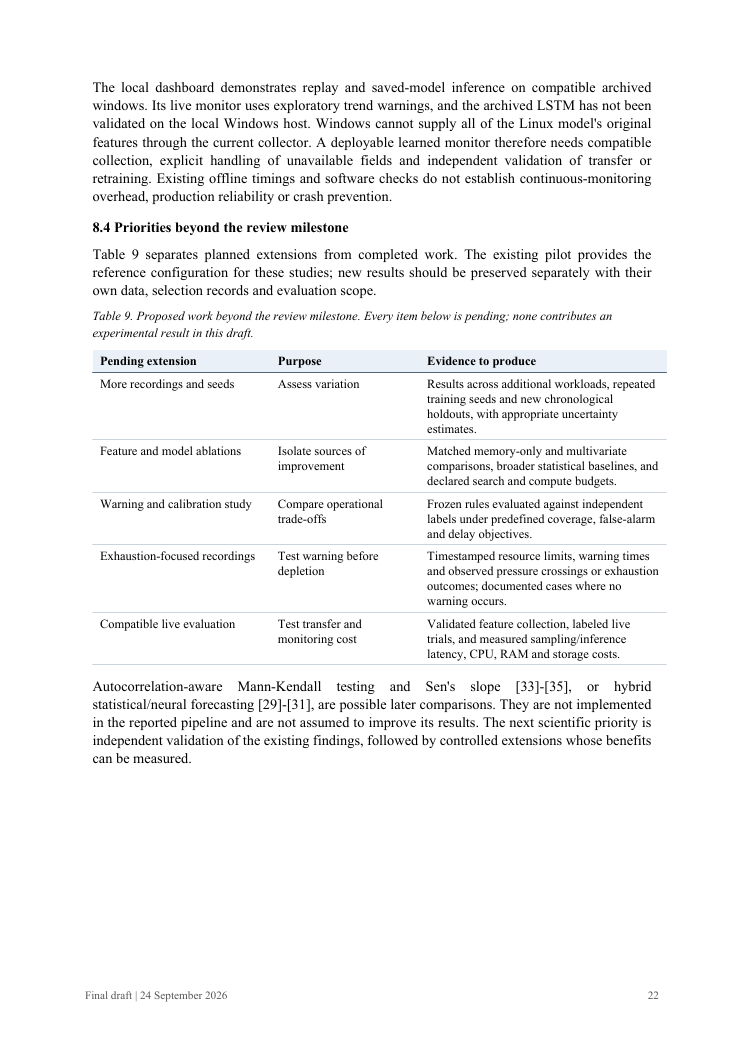
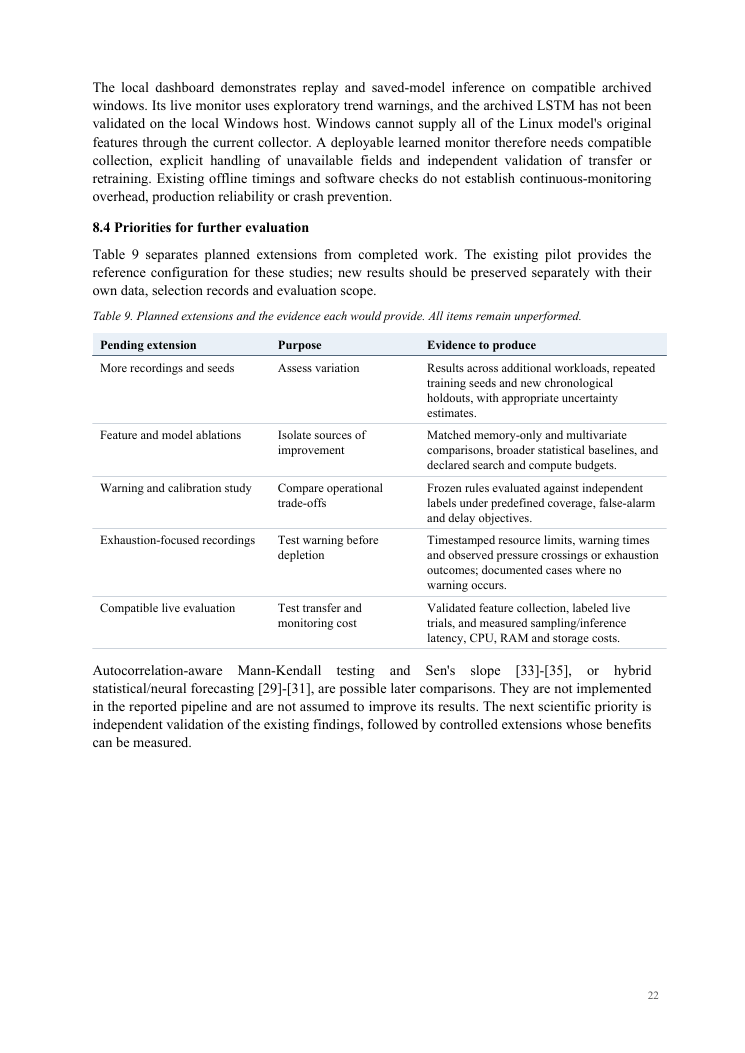
Remove draft labels and clarify manuscript for journal preparation

diff --git a/scripts/build_paper_preview.py b/scripts/build_paper_preview.py
@@ -1,7 +1,7 @@
 """Build the current paper PDF from its editable Markdown source.
 
 Requires reportlab==4.4.9. Supports the headings, paragraphs, links, figures, tables,
-captions, author byline and editorial subtitle used by the final draft.
+captions and author byline used by the manuscript.
 """
 
 from html import escape
@@ -51,7 +51,6 @@ def page_footer(canvas, doc):
     canvas.saveState()
     canvas.setFont("Times-Roman", 9)
     canvas.setFillColor(colors.HexColor("#555555"))
-    canvas.drawString(doc.leftMargin, 15 * mm, doc.paper_status)
     canvas.drawRightString(A4[0] - doc.rightMargin, 15 * mm, str(doc.page))
     canvas.restoreState()
 
@@ -59,9 +58,8 @@ def page_footer(canvas, doc):
 def main():
     source_text = SOURCE.read_text(encoding="utf-8")
     author_line = re.search(r"^Authors: (.+)$", source_text, re.MULTILINE)
-    status_line = re.search(r"^> (.+)$", source_text, re.MULTILINE)
-    if author_line is None or status_line is None:
-        raise ValueError("The manuscript must specify its authors and draft status")
+    if author_line is None:
+        raise ValueError("The manuscript must specify its authors")
     authors = [entry.strip() for entry in author_line.group(1).split(";")]
     styles = {
         "title": ParagraphStyle("PaperTitle", fontName="Times-Bold", fontSize=18,
@@ -180,9 +178,8 @@ def main():
                             rightMargin=24 * mm, topMargin=20 * mm,
                             bottomMargin=23 * mm,
                             title="Predictive Memory Leak Detection Using Time Series Analysis",
-                            subject="Final draft of pilot-study manuscript",
+                            subject="Memory-forecasting and leak-warning pilot study",
                             author="; ".join(authors))
-    doc.paper_status = status_line.group(1)
     doc.build(story, onFirstPage=page_footer, onLaterPages=page_footer)
     print(f"Created {OUTPUT.relative_to(ROOT)}")
 

diff --git a/paper/Predictive_Memory_Leak_Detection_Draft.md b/paper/Predictive_Memory_Leak_Detection_Draft.md
@@ -2,11 +2,9 @@
 
 Authors: Dhruv Dudeja (24BCE0968); Ayush Bhatt (24BDS0180); Bs srivallabha (24BCE0457)
 
-> Final draft | 24 September 2026
-
 ## Abstract
 
-Accurate memory forecasts do not necessarily produce useful leak warnings. This study evaluates these tasks separately using operating-system telemetry from one labeled Antarex fault-injection block and three unlabeled Westermo industrial test systems. A reproducible pipeline preserves chronological training, validation and test partitions, fits preprocessing parameters on training data, and compares persistence, local linear trend, restricted autoregressive integrated moving average (ARIMA) and a small multivariate long short-term memory (LSTM) network. Forecast horizons are 60 seconds for Antarex and 300 seconds for Westermo. Validation-calibrated, forecast-assisted rules combine recent observed growth with forecast growth and require three consecutive qualifying observations. On Antarex, LSTM reduces test root mean squared error from ARIMA's 1.5164 to 1.2164 percentage points of total RAM, a relative reduction of 19.78%. LSTM also has lower root mean squared error on all three Westermo recordings, while ARIMA has lower mean absolute error there. Compared with trend-only warnings, LSTM assistance increases Antarex point precision from 0.8020 to 0.8476 and reduces false alarm starts from 2.1279 to 1.0392 per observed non-leak hour, but point F1 decreases from 0.8297 to 0.6015. Trend-only warnings recognize 35 of 35 eligible injected events; LSTM assistance recognizes 34. A local prototype supports replay and saved-model inference on compatible archived inputs. These single-seed pilot results concern recognition after injection begins; they do not establish warning before exhaustion or validated live LSTM transfer. The findings support assessing forecast errors, warning coverage and false-alarm burden as distinct outcomes.
+We evaluate whether more accurate memory forecasts improve leak warnings using telemetry from one labeled Antarex fault-injection recording and three unlabeled Westermo industrial test systems. Persistence, local linear trend and a restricted autoregressive integrated moving average (ARIMA) baseline are compared with a small multivariate long short-term memory (LSTM) network. Each recording is split chronologically, with preprocessing fitted on training data. Forecast horizons are 60 seconds for Antarex and 300 seconds for Westermo. Warning rules combine recent and predicted memory growth, use validation-selected thresholds and require three consecutive qualifying observations. On Antarex, LSTM reduces test root mean squared error from ARIMA's 1.5164 to 1.2164 percentage points of total RAM, a 19.78% reduction. LSTM also has lower root mean squared error on the Westermo recordings, although ARIMA has lower mean absolute error. LSTM-assisted warnings increase Antarex point precision from 0.8020 to 0.8476 and reduce false alarm starts from 2.1279 to 1.0392 per observed non-leak hour. Point F1, however, falls from 0.8297 to 0.6015. Trend-only warnings recognize all 35 eligible injected events; LSTM assistance recognizes 34. A local prototype provides replay and saved-model inference on archived inputs. These single-seed results show that lower forecast error can accompany reduced warning coverage. They concern recognition after injection begins; warning before memory exhaustion and live LSTM transfer remain unvalidated.
 
 Keywords: memory leaks; operating-system telemetry; time-series forecasting; LSTM; ARIMA; leak-warning evaluation.
 
@@ -14,17 +12,17 @@ Keywords: memory leaks; operating-system telemetry; time-series forecasting; LST
 
 ## 1. Introduction
 
-Memory leaks occur when software retains allocated memory that is no longer needed. In long-running applications, repeated retention can reduce available memory and contribute to performance degradation or failure. However, increasing memory use can also reflect legitimate workload changes or caching, so utilization alone cannot confirm a leak. Prior work has explored detecting leak-like growth from memory-utilization time series without inspecting an application's internal objects [1].
+Memory leaks occur when software retains allocated memory that it no longer needs. As retention accumulates in a long-running application, available memory can decline and performance can deteriorate. Yet an increase in memory use may also reflect a legitimate workload or caching. This ambiguity motivates studying memory-utilization histories for leak-like growth, as in earlier telemetry-based detection work [1].
 
-Operating-system telemetry provides a basis for studying this behavior over time. Memory measurements describe resource availability; CPU activity, page faults, swap activity and disk throughput can provide workload context when available and informative. Forecasting uses past measurements to estimate a future memory value. Assi et al. compared Box-Jenkins and long short-term memory (LSTM) models for Windows performance forecasting [2]. Their comparison motivates evaluating an LSTM against simpler alternatives before attributing practical value to model complexity.
+Operating-system measurements provide a practical view of this behavior. Memory availability describes the resource of interest, while CPU activity, page faults, swap and disk throughput can help explain workload changes when those measurements are available and vary. Assi et al. compared Box-Jenkins and long short-term memory (LSTM) models for Windows performance forecasting [2]. Their work motivates comparing statistical and neural forecasts against simple benchmarks on the chosen workload and forecast horizon.
 
-Accurate forecasting and useful leak warnings are distinct objectives. A model may predict most memory values closely while missing a brief period of sustained growth. A sensitive growth rule may identify injected leaks while also triggering during ordinary activity. Forecast error alone cannot establish detection quality. This study therefore asks whether improved memory forecasts translate into better warnings, assessed through recognition of labeled leak intervals and alarms outside those intervals.
+Our question is whether a reduction in memory-forecast error translates into better leak warnings. A model can predict most observations closely yet miss sustained growth during a leak. Conversely, a sensitive growth rule can cover leak intervals while also warning during ordinary activity. We therefore evaluate forecast error alongside warning precision, coverage, false alarms and event-recognition delay.
 
-The implemented pipeline forecasts a memory-pressure proxy defined as one minus the ratio of available memory to total physical memory. This quantity describes memory availability; it is not an estimated probability of a leak. Persistence, local linear extrapolation and a restricted autoregressive integrated moving average (ARIMA) baseline are compared with a small multivariate LSTM. Each recording is divided chronologically into training, validation and test periods. Learned preprocessing parameters are fitted on training data, and model and warning settings are selected using validation data. Forecasts are evaluated using mean absolute error and root mean squared error; warning behavior is assessed separately.
+The forecast target is a memory-pressure proxy: one minus available memory divided by total physical RAM. We compare persistence, local linear extrapolation, a restricted autoregressive integrated moving average (ARIMA) baseline and a small multivariate LSTM. Training, validation and test periods follow chronological order. Training data determine preprocessing parameters; validation data select model settings and warning thresholds. Mean absolute error and root mean squared error measure forecast quality, while labeled intervals support a separate warning evaluation.
 
-The pilot combines two complementary experimental settings without merging their timelines. The Antarex HPC Fault Dataset supplies real telemetry collected under controlled fault injection, including labeled memory-leak intervals [3]-[5]. Its CPU-MEM_mono block supports forecasting and leak-warning evaluation. Westermo provides industrial test-system telemetry [6]; systems 1-3 are used as separate forecasting experiments. Their leak status is unknown, so alarms on Westermo cannot be scored as confirmed true or false leak detections.
+The Antarex HPC Fault Dataset supplies real telemetry from controlled fault injection, including labeled memory-leak intervals [3]-[5]. We use its CPU-MEM_mono block for forecasting and warning evaluation. Westermo supplies industrial test-system telemetry [6], with systems 1-3 modeled independently. Those recordings have no confirmed leak labels, so they support forecasting comparisons and descriptive alarm counts. The datasets retain separate timelines, features and fitted models.
 
-The study contributes a reproducible pilot comparison, a separate evaluation of trend-only and forecast-assisted warning rules, and a local prototype for replaying the verified experiments. Conclusions are limited to the observed workloads and available labels. The experiments measure recognition after leak injection begins; they do not establish warning before memory exhaustion or prevention of system failure.
+The contribution is an empirical comparison of these predictors and warning rules, supported by saved experimental outputs and a local replay prototype. The labeled results measure recognition after injection begins. Their scope is the observed workloads; warning before memory exhaustion and prevention of failure require further evaluation.
 
 ## 2. Literature Survey
 
@@ -375,7 +373,7 @@ RQ1 shows lower LSTM RMSE, qualified by worse Westermo MAE. For RQ2, LSTM assist
 
 The prototype replays 69,559 test origins and runs saved LSTMs on compatible inputs. Recorded checks passed 40 tests and reproduced 12 representative predictions within 1e-6 memory-pressure fraction. These support demonstration functionality; the separate live monitor has no validated leak-detection accuracy.
 
-One seed, correlated windows, limited workloads, reused validation data and earlier inspection of forecast test results restrict inference. Repeated-seed studies, feature ablations, independent labeled workloads, exhaustion outcomes and validated live deployment remain pending beyond this development pilot and the review milestone.
+One seed, correlated windows, limited workloads, reused validation data and earlier inspection of forecast test results restrict inference. Repeated-seed studies, feature ablations, independent labeled workloads, exhaustion outcomes and validated live deployment are needed to assess how far these findings generalize.
 
 ## 8. Limitations and Future Work
 
@@ -399,11 +397,11 @@ Forecast-assisted warnings use a fixed conjunction of recent and forecast growth
 
 The local dashboard demonstrates replay and saved-model inference on compatible archived windows. Its live monitor uses exploratory trend warnings, and the archived LSTM has not been validated on the local Windows host. Windows cannot supply all of the Linux model's original features through the current collector. A deployable learned monitor therefore needs compatible collection, explicit handling of unavailable fields and independent validation of transfer or retraining. Existing offline timings and software checks do not establish continuous-monitoring overhead, production reliability or crash prevention.
 
-### 8.4 Priorities beyond the review milestone
+### 8.4 Priorities for further evaluation
 
 Table 9 separates planned extensions from completed work. The existing pilot provides the reference configuration for these studies; new results should be preserved separately with their own data, selection records and evaluation scope.
 
-Table 9. Proposed work beyond the review milestone. Every item below is pending; none contributes an experimental result in this draft.
+Table 9. Planned extensions and the evidence each would provide. All items remain unperformed.
 
 | Pending extension | Purpose | Evidence to produce |
 |---|---|---|
@@ -417,11 +415,11 @@ Autocorrelation-aware Mann-Kendall testing and Sen's slope [33]-[35], or hybrid 
 
 ## 9. Conclusion
 
-This study implemented and evaluated a reproducible memory-forecasting and leak-warning pipeline using real telemetry from controlled Antarex fault injections and separate Westermo workloads. Chronological preprocessing, explicit model selection, preserved output packages and a local replay prototype connect the reported comparisons to inspectable experimental artifacts. The study's contribution is this documented pilot evaluation, including outcomes that do not favor the more complex model.
+We evaluated memory forecasting and leak warnings on controlled Antarex fault injections and three separate Westermo workloads. The pipeline preserves chronological data partitions, validation-selected settings and saved outputs, which can be inspected through a local replay prototype.
 
-The multivariate LSTM achieved lower test RMSE than all three forecasting baselines on each recording. Its Antarex RMSE was 1.216399 percentage points of total RAM, compared with 1.516401 for ARIMA. This advantage did not extend uniformly across error measures: ARIMA retained lower MAE on all three Westermo systems. Warning evaluation exposed a further distinction. LSTM assistance increased precision and reduced false alarm starts, while trend-only warnings achieved higher point recall and F1 and recognized all 35 eligible test events, compared with 34 for LSTM assistance. The findings therefore support a trade-off between selectivity and coverage, rather than a single ranking of overall detector quality.
+The multivariate LSTM achieved the lowest test RMSE on all four recordings. On Antarex, its RMSE was 1.216399 percentage points of total RAM, compared with 1.516401 for ARIMA. ARIMA nevertheless retained lower MAE on all three Westermo systems. The warning results were also mixed: LSTM assistance increased precision and reduced false alarm starts, while trend-only achieved higher point recall and F1. Trend-only recognized all 35 eligible test events; LSTM assistance recognized 34. Thus, the forecasting improvement came with a warning trade-off between selectivity and coverage.
 
-These conclusions apply to the documented controlled-leak, single-seed development pilot. Westermo contributes unlabeled workload evidence; the study has no observed exhaustion outcome or validated live LSTM deployment. Independent labeled evaluation, feature and model ablations, and compatible live measurements are the priorities for extending the work. Forecast accuracy should remain one component of that assessment, alongside warning coverage, false alarms, missed events and detection timing.
+These findings are limited to a single-seed development pilot. Westermo has no confirmed leak labels, and neither memory exhaustion nor live LSTM transfer was evaluated. The next step is independent labeled evaluation, followed by feature and model ablations and compatible live trials. Those studies should assess forecast error together with false alarms, missed events, warning coverage and detection timing.
 
 ## References
 

diff --git a/paper/DRAFTING_NOTES.md b/paper/DRAFTING_NOTES.md
@@ -1,6 +1,6 @@
 # Paper drafting record
 
-Updated: 24 September 2026.
+Updated: 8 October 2026.
 
 These are editorial and evidence notes, not paper content.
 
@@ -18,7 +18,7 @@ The user resumed drafting, specified no template or page limit, and requested pr
 - Figures 3-5 show forecasts, learning curves and warnings from unchanged Colab result tables. Their [builder](../scripts/build_results_figures.py) uses the existing Matplotlib environment and checks all 76 original result files before plotting. The [results evidence record](RESULTS_EVIDENCE.md) maps every new table, figure and finding to its sources.
 - The deliverables are editable Markdown and a visually checked PDF. A Word file is not supplied because the bundled Windows runtime has no LibreOffice renderer for the required visual verification workflow.
 - On 24 September, the user supplied the authors in this order: Dhruv Dudeja (24BCE0968), Ayush Bhatt (24BDS0180), Bs srivallabha (24BCE0457). Names, capitalization and registration numbers are reproduced exactly. No affiliation was supplied, so none is invented. No submission venue or venue-specific format was requested.
-- The [final draft checks](FINAL_DRAFT_CHECKS.md) record completed writing, validation and author finalization. The manuscript is designated Final draft, dated 24 September 2026.
+- The [final draft checks](FINAL_DRAFT_CHECKS.md) record completed writing, validation, author finalization and the 8 October journal-preparation edit. The user requested removal of the draft/date label, so the manuscript now has no editorial subtitle or footer beyond page numbering.
 
 ## Preview checks
 
@@ -28,21 +28,21 @@ All five figures and nine tables retain their captions, and each reference stays
 
 View the survey on [page 3](../output/pdf/Literature_Survey_preview.png), [page 4](../output/pdf/Literature_Survey_preview-2.png), [page 5](../output/pdf/Literature_Survey_preview-3.png) and [page 6](../output/pdf/Literature_Survey_preview-4.png), or a [bibliography preview](../output/pdf/References_preview.png). The [addition record](REFERENCE_ADDITIONS.md) explains how each of the ten new sources contributes.
 
-The final author update on 24 September preserves this pagination and every substantive paragraph. The first page now contains the supplied author byline; the subtitle and all footers identify the final draft and its date. Pages 2-27 retain pixel-identical page bodies compared with the preceding PDF, excluding the footer. The first page, final reference page and representative footers were visually checked, and the saved previews were refreshed. See the author-finalization checks in [FINAL_DRAFT_CHECKS.md](FINAL_DRAFT_CHECKS.md).
+The author update on 24 September preserved this pagination and every substantive paragraph. It added the supplied author byline and, at that time, a draft/date subtitle and footer. The subtitle and footer were removed on 8 October; the authors remain. Pages 2-27 retain pixel-identical page bodies compared with the preceding PDF, excluding the footer. The first page, final reference page and representative footers were visually checked, and the saved previews were refreshed. See the author-finalization checks in [FINAL_DRAFT_CHECKS.md](FINAL_DRAFT_CHECKS.md).
 
 ## Section checkpoints
 
 | Section | Status |
 |---|---|
-| Introduction | Approved by the user; body text preserved |
+| Introduction | Originally approved; clarity edit on 8 October preserves its citations and scientific claims |
 | Literature Survey | Complete; expanded with ten verified IEEE/ACM works under the user's latest request |
 | Research Gap and Problem Statement | Approved by the user; body text preserved |
 | Proposed Methodology | Accepted for continued drafting, including verified architecture Figure 2; body preserved |
 | Experimental Setup | Accepted for continued drafting; six subsections and four tables; body preserved |
-| Preliminary Results and Discussion | Accepted for continued drafting; five subsections, four result tables and three figures checked against complete Colab outputs; body preserved |
-| Limitations and Future Work | Complete; four subsections and Table 9; completed evidence separated from pending extensions; body preserved |
-| Conclusion | Complete; 230 words, bounded by executed experiments and checked against saved results |
-| Abstract and Keywords | Complete; 237-word abstract written last, six keywords; summary metrics checked against saved results |
+| Preliminary Results and Discussion | Complete; five subsections, four result tables and three figures checked against complete Colab outputs; review-milestone wording in Section 7.5 removed on 8 October |
+| Limitations and Future Work | Complete; four subsections and Table 9; Section 8.4 heading and Table 9 caption revised for journal context on 8 October; pending status preserved |
+| Conclusion | Complete; 181 words after the 8 October clarity edit, bounded by executed experiments |
+| Abstract and Keywords | Complete; 213-word abstract after the 8 October clarity edit, six keywords; reported metrics preserved |
 | References | 46 distinct works, all cited and renumbered by first appearance; identity, relevance and reading scope audited |
 
 ## Introduction evidence map
@@ -143,6 +143,14 @@ The entries below record the first Introduction checkpoint on 14 September 2026.
 4. [FINJ institutional publication record](https://cris.unibo.it/handle/11585/668910): six authors, published workshop proceedings in 2019, volume 11339, pages 800-812 and DOI checked. The workshop title contains 2018; this is not the publication year used here.
 5. [Online Fault Classification, arXiv](https://arxiv.org/abs/1810.11208): six authors, original submission 26 October 2018 and revised version 11 July 2019; identifies injected-fault data and Euro-Par 2019 acceptance. This draft cites the identified arXiv version, not an unverified publisher record.
 6. [Westermo, arXiv](https://arxiv.org/abs/2311.14510): Per Erik Strandberg and Yosh Marklund, 24 November 2023; real performance measurements on 19 test systems, twice per minute over a month. The experiments use three of those systems.
+
+## Journal preparation and AI assistance - 8 October 2026
+
+The user intends to submit to a college journal and requested removal of the draft/date statement and attention to writing quality ahead of an AI check. No journal template or AI-use policy was supplied. The edit removes that statement, tightens the Abstract, Introduction and Conclusion, and replaces review-specific wording in Sections 7.5 and 8.4. All tables, experimental settings, numerical findings, citations and research limitations remain supported by the same saved evidence. The PDF remains 27 pages with unchanged section destinations.
+
+No AI detector was run, no manuscript was sent to an external checking service, and no lower AI score is claimed. The editorial objective is clear, accurate academic writing. Turnitin's [official guidance on its AI Writing Report](https://guides.turnitin.com/hc/en-us/articles/22774058814093-Using-the-AI-Writing-Report) states that its model may misidentify human-written, generated and paraphrased text and should not be the sole basis for adverse action. This guidance is contextual information, not a policy attributed to the unnamed journal.
+
+AI assistance has been used in project implementation and manuscript drafting; the edit does not establish unaided human authorship. The named authors should review the submitted wording and check any disclosure requirements with the journal. No claim that this author review has already occurred is made.
 
 ## Guardrails for future revisions
 

diff --git a/paper/FINAL_DRAFT_CHECKS.md b/paper/FINAL_DRAFT_CHECKS.md
@@ -1,8 +1,8 @@
 # Final draft checks
 
-Checked: 24 September 2026 (author finalization); substantive manuscript and reference checks: 15 September 2026.
+Checked: 8 October 2026 (journal-preparation edit); author finalization: 24 September; substantive manuscript and reference checks: 15 September.
 
-All substantive manuscript writing is complete. The final draft includes Dhruv Dudeja (24BCE0968), Ayush Bhatt (24BDS0180) and Bs srivallabha (24BCE0457), exactly as supplied and in that order. The first page and page footers identify Final draft | 24 September 2026. No affiliation was supplied, and no venue-specific format was requested.
+All substantive manuscript writing is complete. The manuscript includes Dhruv Dudeja (24BCE0968), Ayush Bhatt (24BDS0180) and Bs srivallabha (24BCE0457), exactly as supplied and in that order. The draft/date subtitle and footer text were removed on 8 October; page numbers remain. No affiliation was supplied. The user reported no journal template or AI-use policy when asked; journal-specific submission requirements have not been verified.
 
 ## Deliverables
 
@@ -27,7 +27,7 @@ All substantive manuscript writing is complete. The final draft includes Dhruv D
 | 9. Conclusion | 23 |
 | References | 24-27 |
 
-The 237-word Abstract and 230-word Conclusion summarize the executed pilot. Section 7 remains titled Preliminary Results because the available evidence is a development pilot; this is not an unfinished writing section. Table 9 marks additional studies as pending.
+The 213-word Abstract and 181-word Conclusion summarize the executed pilot. Section 7 remains titled Preliminary Results because the available evidence is a development pilot; this is not an unfinished writing section. Table 9 marks additional studies as pending.
 
 ## Verification performed on 15 September 2026
 
@@ -49,6 +49,15 @@ Detailed provenance is in [DRAFTING_NOTES.md](DRAFTING_NOTES.md), [RESULTS_EVIDE
 - Compared extracted text page by page with the preceding PDF, excluding only the new byline and changed status/date. All substantive text, results, 46 references, five figures and nine tables remain unchanged; PDF links also match page by page.
 - Rendered all 27 pages and compared their page bodies with the preceding PDF. Pages 2-27 match pixel for pixel when the updated footer is excluded. Visually inspected the changed first page, final reference page and representative footer strips; no overlap or clipping was found.
 - Refreshed the saved page previews to match the final draft. No model training, warning recalibration or experiment rerun was performed for this author update.
+
+## Journal-preparation edit on 8 October 2026
+
+- Removed the draft/date statement from the title page and all 27 page footers; kept author metadata and page numbers. Checked both extracted text and the rendered left-footer areas for complete removal.
+- Tightened the Abstract, Introduction and Conclusion for clarity and reduced repetition. Replaced review-milestone wording in Section 7.5, the Section 8.4 heading and Table 9 caption with research-focused wording. No result or limitation was upgraded into a stronger claim.
+- Verified sections 2-6 and the bibliography are textually unchanged. All table data, figure paths and 46 PDF reference links match the prior version. All 11 section bookmarks retain their page destinations.
+- Rendered every page. Page bodies changed only on pages 1, 2, 20, 22 and 23; all five were visually checked for clipping, overlap and disrupted figure/table placement. The other 22 page bodies match the prior PDF pixel for pixel when the removed footer is excluded.
+- Refreshed all 19 existing manuscript page previews. Preserved unrelated PDFs and working files in the project folder.
+- No experiment or model was rerun. No AI-detector score was measured, and the manuscript was not uploaded to a third-party detector. Editorial changes do not establish a detector score or journal acceptance.
 
 ## Evidence boundary
 

diff --git a/research/PROJECT_STATUS.md b/research/PROJECT_STATUS.md
@@ -1,6 +1,6 @@
 # Review 2 progress
 
-Last updated: 24 September 2026
+Last updated: 8 October 2026
 
 ## Confirmed decisions
 
@@ -78,4 +78,9 @@ All 20 Colab warning-result files passed integrity checks; all 402,364 warning d
 
 The [complete paper draft](../paper/Predictive_Memory_Leak_Detection_Draft.md) and [27-page PDF](../output/pdf/Predictive_Memory_Leak_Detection_Draft.pdf) contain Abstract/Keywords and sections 1-9. The expanded Literature Survey is on pages 3-6, Architecture on page 13, Experimental Setup on pages 14-16, Preliminary Results and Discussion on pages 17-20, Limitations and Future Work on pages 21-22, Conclusion on page 23, and the 46 cited references on pages 24-27. Table 9 marks all proposed extensions as pending. The [ten additions](../paper/REFERENCE_ADDITIONS.md) comprise six IEEE-published and four ACM-published works; Google Scholar access was unavailable and is not claimed as a completed search. The literature update preserves all experimental findings and original result files. See [final draft checks](../paper/FINAL_DRAFT_CHECKS.md) and [drafting notes](../paper/DRAFTING_NOTES.md).
 
-On 24 September, the user supplied Dhruv Dudeja (24BCE0968), Ayush Bhatt (24BDS0180) and Bs srivallabha (24BCE0457), in that order, and requested the final draft. Those exact names and registration numbers appear on the first page and in PDF author metadata. The subtitle and every page footer read Final draft | 24 September 2026. Affiliation was not supplied and is omitted. No new notebook run is required to support the reported pilot results. Repeated-seed studies, ablations, independent labeled evaluation, exhaustion outcomes and validated live deployment remain later research work, as stated in the final draft.
+On 24 September, the user supplied Dhruv Dudeja (24BCE0968), Ayush Bhatt (24BDS0180) and Bs srivallabha (24BCE0457), in that order, and requested the final draft. Those exact names and registration numbers appear on the first page and in PDF author metadata. That subtitle and its matching page-footer text were removed on 8 October at the user's request; page numbers remain. Affiliation was not supplied and is omitted. No new notebook run is required to support the reported pilot results. Repeated-seed studies, ablations, independent labeled evaluation, exhaustion outcomes and validated live deployment remain later research work, as stated in the final draft.
+
+
+## Journal preparation - 8 October
+
+The user intends to submit to a college journal and reported no template or AI-use policy when asked. The current PDF omits the draft/date label on every page and retains page numbering and the exact supplied authors. A focused clarity edit revised the Abstract, Introduction and Conclusion, plus review-milestone wording in Sections 7.5 and 8.4. The 27-page manuscript retains all 46 references, five figures, nine tables and experimental findings. No AI-detector score was measured or promised, no manuscript was uploaded to an external checker, and journal-specific compliance or acceptance is not established. See the 8 October checks in [FINAL_DRAFT_CHECKS.md](../paper/FINAL_DRAFT_CHECKS.md).

diff --git a/README.md b/README.md
@@ -6,7 +6,7 @@ A reproducible research prototype with a local dashboard, four Colab notebooks, 
 
 The [editable draft](paper/Predictive_Memory_Leak_Detection_Draft.md) contains Abstract/Keywords, sections 1-9 and 46 distinct references, all cited in the text. Ten [IEEE/ACM additions](paper/REFERENCE_ADDITIONS.md) strengthen the Literature Survey. The checked [27-page PDF](output/pdf/Predictive_Memory_Leak_Detection_Draft.pdf) includes five figures, nine tables and section bookmarks. Abstract/Keywords is on page 1, Introduction on page 2, Literature Survey on pages 3-6, Research Gap and Problem Statement on pages 7-8, Methodology on pages 9-13, Experimental Setup on pages 14-16, Preliminary Results and Discussion on pages 17-20, Limitations and Future Work on pages 21-22, Conclusion on page 23, and references on pages 24-27.
 
-View the [expanded Literature Survey](output/pdf/Literature_Survey_preview.png), [Abstract](output/pdf/Abstract_preview.png), [forecast figures](output/pdf/Forecast_Results_preview.png), [warning results](output/pdf/Warning_Results_preview.png) or [Conclusion](output/pdf/Conclusion_preview.png). The [final draft checks](paper/FINAL_DRAFT_CHECKS.md) summarize completion and validation. The final draft dated 24 September 2026 includes Dhruv Dudeja (24BCE0968), Ayush Bhatt (24BDS0180) and Bs srivallabha (24BCE0457), in the supplied order. The [results evidence record](paper/RESULTS_EVIDENCE.md) links findings to complete Colab runs, including unfavorable outcomes. See [drafting notes](paper/DRAFTING_NOTES.md) and the [reference audit](paper/REFERENCE_AUDIT.md) for evidence maps and source verification. Unperformed studies remain explicitly marked as future work.
+View the [expanded Literature Survey](output/pdf/Literature_Survey_preview.png), [Abstract](output/pdf/Abstract_preview.png), [forecast figures](output/pdf/Forecast_Results_preview.png), [warning results](output/pdf/Warning_Results_preview.png) or [Conclusion](output/pdf/Conclusion_preview.png). The [final draft checks](paper/FINAL_DRAFT_CHECKS.md) summarize completion and validation. The manuscript includes Dhruv Dudeja (24BCE0968), Ayush Bhatt (24BDS0180) and Bs srivallabha (24BCE0457), in the supplied order. On 8 October, the draft/date label was removed and the Abstract, Introduction and Conclusion were edited for clarity; experimental findings remain unchanged. The [results evidence record](paper/RESULTS_EVIDENCE.md) links findings to complete Colab runs, including unfavorable outcomes. See [drafting notes](paper/DRAFTING_NOTES.md) and the [reference audit](paper/REFERENCE_AUDIT.md) for evidence maps and source verification. Unperformed studies remain explicitly marked as future work.
 
 ## Run the dashboard on the existing project computer
 
